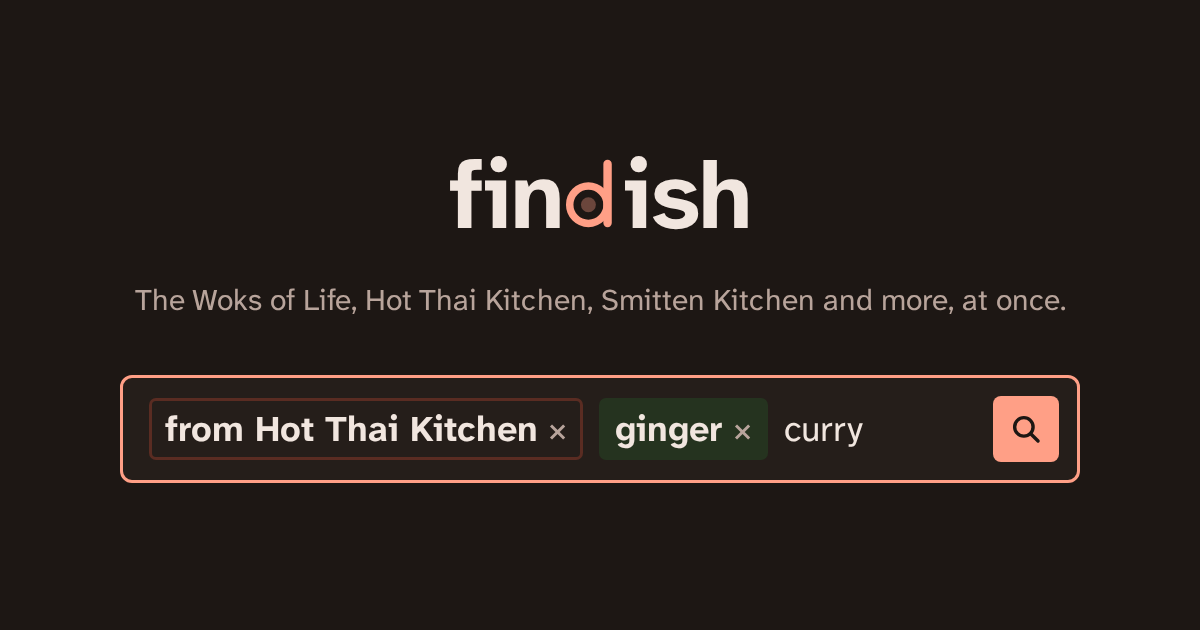
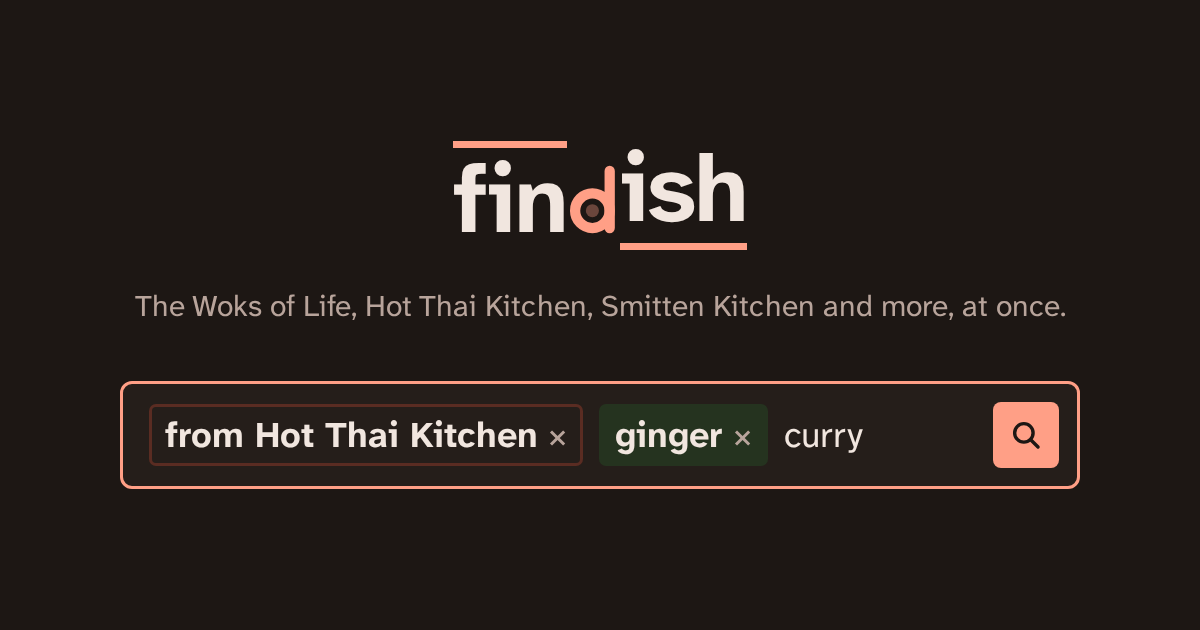
The wordmark gets its two short lines back and a d that matches the letters; the cuisine note is just a link
The line over "fin" and the line under "ish" are back, with the d left open
(not boxed in). The plate d's strokes now match the bold letters, and the extra
room on its right is gone, so the gaps either side of it are even. The share
card follows.

A one-cuisine search now shows one quiet line, "Explore Thai cuisine on World
cuisine", instead of a card with a Wikipedia sentence; ingredients get nothing.

Claude-Session: https://claude.ai/code/session_015KDcQG7Phcc9ZQiyKCp2Nv

Changed region(s): [[0.0925, 0.573, 0.8942, 0.7841], [0.0925, 0.4524, 0.8942, 0.5127], [0.37, 0.2111, 0.6475, 0.4222]]

diff --git a/src/scripts/search.ts b/src/scripts/search.ts
@@ -846,29 +846,25 @@ function renderVideos(hits: VideoRow[], q: string[], only: boolean) {
 }
 
 // ---------------------------------------------------------------------------------------
-// A short card when the search is about exactly one cuisine or one ingredient: one sentence
-// from World cuisine (which takes it from Wikipedia) and links to both. Nothing for anything
-// broader, so it never stacks up. Its text loads only the first time a card is needed.
+// When a search is just one cuisine, one quiet line above the results links to that cuisine
+// on World cuisine (kyle-pace/cuisine-explorer). Nothing for ingredients or broader searches.
+// Until 2026-11-16 it was a card with a Wikipedia sentence; Kyle dropped it as filler.
+// The links load (public/notes.json) only the first time the line is needed.
 
-type Note = { name: string; line: string; page: string; wiki: string };
-let notes: { cuisines: Record<string, Note>; ingredients: Record<string, Note> } | null = null;
+type Note = { name: string; page: string };
+let notes: { cuisines: Record<string, Note> } | null = null;
 let notesLoading = false;
 
-function noteFor(): { kind: 'cuisine' | 'ingredient'; id: string; label: string } | null {
+function noteFor(): string | null {
   const others = state.sites.size || state.without.length || state.notWords.length || state.fresh || state.picked >= 0;
-  if (others) return null;
-  if (state.cuisine && !state.q && !state.with.length) return { kind: 'cuisine', id: state.cuisine, label: `${state.cuisine} cuisine` };
-  // One ingredient tag, or the name of one typed on its own ("ginger").
-  const typed = state.q && !state.with.length && !state.cuisine ? ingredientFor(state.q, true) : null;
-  const p = state.with.length === 1 && !state.q && !state.cuisine ? state.with[0] : typed;
-  if (p != null) return { kind: 'ingredient', id: data.ing[p][0], label: data.ing[p][1] };
-  return null;
+  if (others || !state.cuisine || state.q || state.with.length) return null;
+  return state.cuisine;
 }
 
 function renderNote() {
   const box = $('note');
-  const want = noteFor();
-  if (!want) return void (box.hidden = true);
+  const cuisine = noteFor();
+  if (!cuisine) return void (box.hidden = true);
   if (!notes) {
     box.hidden = true;
     if (!notesLoading) {
@@ -876,43 +872,17 @@ function renderNote() {
       fetch('/notes.json')
         .then((r) => (r.ok ? r.json() : null))
         .then((n) => {
-          notes = n || { cuisines: {}, ingredients: {} };
+          notes = n?.cuisines ? n : { cuisines: {} };
           renderNote();
         })
-        .catch(() => (notes = { cuisines: {}, ingredients: {} }));
+        .catch(() => (notes = { cuisines: {} }));
     }
     return;
   }
-  const note = want.kind === 'cuisine' ? notes.cuisines[want.id] : notes.ingredients[want.id];
+  const note = notes.cuisines[cuisine];
   if (!note) return void (box.hidden = true);
-  const data_ = `data-note="${want.kind}" data-note-id="${esc(want.id)}"`;
-  // A native show/hide: open or closed, it stays the way it was left, on later searches too.
-  box.innerHTML = `<details id="note-details"${notesOpen() ? ' open' : ''}>
-    <summary><span id="note-title">About ${esc(want.kind === 'cuisine' ? note.name : want.label)}</span></summary>
-    <p>${esc(note.line)}</p>
-    <p class="note-more"><a href="${esc(note.page)}" ${data_} data-note-link="world-cuisine">Explore ${esc(
-      want.kind === 'cuisine' ? note.name : want.label.toLowerCase(),
-    )} on World cuisine</a>. Text from <a href="${esc(note.wiki)}" ${data_} data-note-link="wikipedia">Wikipedia</a>.</p>
-  </details>`;
+  box.innerHTML = `<a href="${esc(note.page)}" data-note="cuisine" data-note-id="${esc(cuisine)}" data-note-link="world-cuisine">Explore ${esc(note.name)} on World cuisine</a>`;
   box.hidden = false;
-  $('note-details').addEventListener('toggle', (e) => {
-    const open = (e.target as HTMLDetailsElement).open;
-    if (open === notesOpen()) return; // the same as before: nothing to save or count
-    try {
-      localStorage.setItem(NOTES_KEY, open ? 'open' : 'closed');
-    } catch {}
-    track('Changed Notes Setting', { notes_shown: open, note_kind: want.kind });
-  });
-}
-
-/** Whether notes start open. Kept in this browser only (localStorage), like the display settings. */
-const NOTES_KEY = 'findish-notes';
-function notesOpen(): boolean {
-  try {
-    return localStorage.getItem(NOTES_KEY) !== 'closed';
-  } catch {
-    return true;
-  }
 }
 
 function renderAlso() {

diff --git a/design/og.html b/design/og.html
@@ -9,7 +9,9 @@ body{width:1200px;height:630px;background:#1d1714;color:#f1e6df;font-family:A;ov
 .name{font-size:96px;font-weight:700;letter-spacing:-0.03em;line-height:1;margin:0}
 .name{display:inline-flex;align-items:stretch;letter-spacing:-0.02em}
 .d{display:flex;align-items:flex-end;padding:0 0.02em}
-.d svg{display:block;width:0.585em;height:0.74em;margin-bottom:0.15em;color:#ff9f86}
+.fin{border-top:0.08em solid #ff9f86;padding-top:0.04em}
+.ish{border-bottom:0.08em solid #ff9f86;padding-bottom:0.06em}
+.d svg{display:block;width:0.507em;height:0.74em;margin-bottom:0.15em;color:#ff9f86}
 .from{font-size:30px;color:#b8a49b;margin:36px 0 0}
 .box{margin-top:56px;width:960px;box-sizing:border-box;display:flex;align-items:center;gap:16px;padding:18px 18px 18px 26px;border:3px solid #ff9f86;border-radius:12px;background:#251e1a;font-size:36px;text-align:left}
 .tag{font-weight:700;background:#25331f;border-radius:7px;padding:8px 16px}
@@ -18,7 +20,7 @@ body{width:1200px;height:630px;background:#1d1714;color:#f1e6df;font-family:A;ov
 .text{flex:1}
 .go{width:66px;height:66px;border-radius:8px;background:#ff9f86;display:grid;place-items:center}
 </style></head><body>
-<p class="name"><span class="fin">fin</span><span class="d"><svg viewBox="0 0 60 76"><circle cx="25" cy="50" r="20" fill="none" stroke="currentColor" stroke-width="8"/><circle cx="25" cy="50" r="8" fill="currentColor" opacity="0.35"/><rect x="41" y="2" width="9" height="72" rx="4.5" fill="currentColor"/></svg></span><span class="ish">ish</span></p>
+<p class="name"><span class="fin">fin</span><span class="d"><svg viewBox="0 0 52 76"><circle cx="25" cy="50" r="18.5" fill="none" stroke="currentColor" stroke-width="11"/><circle cx="25" cy="50" r="7" fill="currentColor" opacity="0.35"/><rect x="38" y="2" width="11" height="72" rx="5.5" fill="currentColor"/></svg></span><span class="ish">ish</span></p>
 <p class="from">The Woks of Life, Hot Thai Kitchen, Smitten Kitchen and more, at once.</p>
 <div class="box"><span class="tag creator">from Hot Thai Kitchen<span class="x">×</span></span><span class="tag">ginger<span class="x">×</span></span><span class="text">curry</span>
 <span class="go"><svg viewBox="0 0 24 24" width="34" height="34"><circle cx="10.5" cy="10.5" r="6.5" fill="none" stroke="#1d1714" stroke-width="2.4"/><path d="m15.5 15.5 5 5" stroke="#1d1714" stroke-width="2.4" stroke-linecap="round"/></svg></span></div>

diff --git a/AGENTS.md b/AGENTS.md
@@ -246,14 +246,14 @@ Findish (findish.now; called Recipe search until 2026-11-16, when it moved off k
 - Creators: a creator is a site, a site and its YouTube channel, or a channel alone (Kenji). The `site=` URL parameter holds creator ids.
 - **Courses** (added 2026-11-16): `scripts/course.mjs` sorts each recipe into one of nine courses (main, side, soup, starter, breakfast, dessert, bread, sauce, drink) from its site's label (`k`), folding about 185 labels into those; with no label, only a plainly named dish decides, and a plain sauce, dessert or drink name beats a main or side label. Unclear stays `''` and is hidden only when a course is picked: never guess a course, since a wrong one hides a recipe. Tests in `scripts/course.test.mjs`. The page's Course filter (`course=`), the MCP `course` argument and "<Cuisine> sides to go with it" under main dishes all read it. Index rows carry it at position 10.
 - **New this week** (added 2026-11-16): the crawler stamps each recipe with `a`, the day it first found it, and keeps it across refetches (backfilled from git history on 2026-11-16). `build-index.mjs` lists as `fresh` the recipes found in the six days before the latest crawl, leaving out a creator's first crawl. The home page names up to three; "See all" sets `new=1`. Index rows carry the date at position 11.
-- **Cuisines and the note card** (added 2026-11-16, Kyle's call): cuisines are offered in the suggestions like creators and ingredients ("Thai cuisine"), and picking one sets the Cuisine filter and shows a cuisine tag; "thai food", "korean recipes" and the like do the same on Enter, but a bare "thai" stays a word (it also finds dishes filed under another cuisine). When a search is exactly one cuisine, or one ingredient (a tag or its name typed alone), a short card above the results gives one sentence from World cuisine (kyle-pace/cuisine-explorer, which takes it from Wikipedia) and links to its World cuisine page and to Wikipedia. Nothing broader gets a card. The text comes from `vendor/world-cuisine/notes.json`, refreshed with `npm run sync-world-cuisine` (expects a clone at `../cuisine-explorer`); `scripts/world-cuisine.mjs` keeps only the first sentence, without bracketed asides, and gives an ingredient a note only when World cuisine's ingredient goes by one of the catalog's names for it (its name or an alias, so "Scallions" covers green onion). The build writes the notes Findish can use to `public/notes.json`, which the page fetches only when a card shows. The note is a native `<details>` show/hide ("About Thai cuisine"): open by default, and a close or open is remembered in this browser (`localStorage`, key `findish-notes`) for later notes (Kyle wanted it switchable, 2026-11-16). Events: "Added Cuisine", "Opened World Cuisine" and "Changed Notes Setting".
+- **Cuisines and the note card** (added 2026-11-16, Kyle's call): cuisines are offered in the suggestions like creators and ingredients ("Thai cuisine"), and picking one sets the Cuisine filter and shows a cuisine tag; "thai food", "korean recipes" and the like do the same on Enter, but a bare "thai" stays a word (it also finds dishes filed under another cuisine). When a search is exactly one cuisine, one quiet line above the results links to it on World cuisine (kyle-pace/cuisine-explorer): "Explore Thai cuisine on World cuisine". Nothing for ingredients or broader searches. (Until 2026-11-16 this was a show/hide card with a Wikipedia sentence for cuisines and ingredients; Kyle dropped it as filler, since the sentences were dictionary definitions like "Pork is the culinary name for the meat of the pig.") The links come from `vendor/world-cuisine/notes.json`, refreshed with `npm run sync-world-cuisine` (expects a clone at `../cuisine-explorer`; `scripts/world-cuisine.mjs` still builds the full notes there), and the build writes just each cuisine's name and page to `public/notes.json`, which the page fetches only when the line shows. Events: "Added Cuisine" and "Opened World Cuisine" ("Changed Notes Setting" is retired).
 - **Home page ideas** (rotating since 2026-11-16, Kyle's call): every visit draws fresh ones at random in `buildStart` (`src/scripts/search.ts`): four dishes from the `TRY` pool (each must find at least `TRY_MIN` recipes), five of the 18 `popular` ingredients, two creators and three of the week's new recipes. Add dishes to `TRY` to widen the pool. Tapping a dish sends "Tapped Dish Idea" (`dish`); the other lines already send "Added Ingredient" (`added_from: popular`), "Added Creator" and "Opened Recipe" (`opened_from: new`).
 - Events for these: "Changed Filter" (every filter, `filter_name`, `filter_value`), "Opened Sides" and "Opened New Recipes"; opening a named new recipe is "Opened Recipe" with `opened_from: new`.
 - It stands on its own: the shell is kp-design's `LabLayout` with its `site` settings from `src/lib/site.ts` (name in titles and share cards, Amplitude project and live host, and the footer links, which include "More by Kyle" back to kylepace.dev); every page passes `bar={false}`, pinned to a commit in package.json.
 - Analytics go to Findish's own Amplitude project, "Findish" (910064), since 2026-11-16, only on findish.now. The key is in `src/lib/site.ts`; `scripts/popularity.mjs` reads the same project with the Actions secrets `AMPLITUDE_API_KEY` and `AMPLITUDE_SECRET_KEY`. Custom events no longer carry `experiment` (that's only for projects sharing kylepace.dev's). Events from before the move stay in the kylepace.dev project (902556) under `experiment: "recipe-search"`.
 - The crawler is FindishBot (renamed from RecipeSearchBot on 2026-11-16, Kyle's call; no indexed site's robots.txt named the old one). Its user agent links to findish.now/about/. `robotsForNames` in `crawler/lib/robots.mjs` applies the rules for every name it has gone by (`OLD_NAMES` in `crawler/crawl.mjs`): a path must be allowed for all of them and the longest Crawl-delay wins, so a block on the old name still holds. Keep old names in that list. Its look is its own: `src/styles/theme.css` overrides the tokens with "Tomato and basil" (Kyle's pick, 2026-11-16).
 - Photos load straight from each recipe's own site (Kyle's call, 2026-11-08), with no referrer and lazily. A photo five or more recipes share is a site's stand-in ("Photo to come"), so `build-index.mjs` drops it and those recipes show without one. Their hosts are in `.agents/allowed-hosts.txt`. A site that blocks it or asks us to stop gets text-only cards: set `crawl.photos: false` on it in KitchenCatalog's `recipe-sources/sources.json`, then `npm run sync-catalog`.
-- The wordmark ("fin", a plate-shaped d in tomato red, "ish"; the bars over and under came off the same day, Kyle's call) is `src/components/Wordmark.astro`, used in the home page's name and in `src/components/SiteHead.astro`, the link home at the top of every other page. The plate d alone is the favicon, `public/favicon-v3.svg`, which every page passes to `LabLayout` as `favicon`; if it changes again, give it a new name. Don't put an `aria-label` on links around the wordmark: the visible letters read "finish", so a label like "Findish, back to the search" fails axe. See `design/PLAN.md`.
+- The wordmark ("fin", a plate-shaped d in tomato red, "ish", with a short tomato line over "fin" and another under "ish"; the first bars also ran over and under the d and boxed it in, so they came off, and Kyle had the two short lines put back the same night, 2026-11-16, with the d's strokes made heavier to match the bold letters and its spacing evened out) is `src/components/Wordmark.astro`, used in the home page's name and in `src/components/SiteHead.astro`, the link home at the top of every other page. The plate d alone is the favicon, `public/favicon-v3.svg`, which every page passes to `LabLayout` as `favicon`; if it changes again, give it a new name. Don't put an `aria-label` on links around the wordmark: the visible letters read "finish", so a label like "Findish, back to the search" fails axe. See `design/PLAN.md`.
 - The share cards are `design/og.html`, `og-about.html`, `og-assistants.html` and `og-privacy.html`, rendered to the matching PNGs in `public/`.
 - Run `npm run build` before pushing; it must pass.
 

diff --git a/design/PLAN.md b/design/PLAN.md
@@ -19,7 +19,7 @@ The other two directions considered: a cookbook-index list (one column, time on 
 
 ## The wordmark (November 16, 2026)
 
-Findish is "fin", a plate-shaped d in tomato red, "ish", in Atkinson bold. The d (a plate seen from above, with its stem) is where find and dish meet. Kyle picked the plate d on November 16 from mocks that combined two earlier ideas, bars over and under the name and the plate d; it replaced the curve under "dish", and he had the bars taken off the same day because they boxed the name in. It's text and one small inline SVG for the d (`src/components/Wordmark.astro`), so it scales and follows light and dark; screen readers hear "Findish" from hidden text and skip the drawing. It's the big name on the home page, the small link home in results, and a link home at the top of every other page (`src/components/SiteHead.astro`, since there's no top bar). The plate d on its own is the favicon (`public/favicon-v3.svg`, tomato since November 16, renamed so search engines refetch it; every page passes it to `LabLayout`), and the home share card (`design/og.html`) uses the full mark.
+Findish is "fin", a plate-shaped d in tomato red, "ish", in Atkinson bold. The d (a plate seen from above, with its stem) is where find and dish meet. Kyle picked the plate d on November 16 from mocks that combined two earlier ideas, bars over and under the name and the plate d; it replaced the curve under "dish", and he had the bars taken off the same day because they boxed the name in. That night the two short lines came back on their own, one over "fin" and one under "ish", leaving the d open, and the d got heavier strokes (11 units, matching the bold letters) and lost the extra room on its right so the gaps either side of it are even. It's text and one small inline SVG for the d (`src/components/Wordmark.astro`), so it scales and follows light and dark; screen readers hear "Findish" from hidden text and skip the drawing. It's the big name on the home page, the small link home in results, and a link home at the top of every other page (`src/components/SiteHead.astro`, since there's no top bar). The plate d on its own is the favicon (`public/favicon-v3.svg`, tomato since November 16, renamed so search engines refetch it; every page passes it to `LabLayout`), and the home share card (`design/og.html`) uses the full mark.
 
 ## The subject
 
@@ -96,5 +96,5 @@ Kyle found the home page cramped and the menus fussy. From filter menus on Navan
 Kyle wanted people to be able to search for a cuisine, or an ingredient, as the thing itself, without the page getting busy. The rule: one extra thing at a time, and only when the search is clearly about it.
 
 - A cuisine is a suggestion like a creator or an ingredient, and becomes a tag with a basil outline (between an ingredient's fill and a creator's tomato ring).
-- When the search is exactly one cuisine or one ingredient, a quiet strip under the count: its name, one sentence from World cuisine (from Wikipedia), and links to both. A field-rule line on the left, not a panel or card, so it reads as a note and not a result. Two ingredients, a dish name, a creator or anything left out: no strip.
+- When the search is exactly one cuisine, one quiet line under the count: "Explore Thai cuisine on World cuisine". Nothing else. (It was a strip with a Wikipedia sentence for cuisines and ingredients until November 16; the sentences were dictionary definitions, so Kyle cut it to the link.)
 - It's a show/hide ("About Thai cuisine"), so anyone who'd rather not see notes can close it to one quiet line; it stays closed on later searches in that browser.

diff --git a/README.md b/README.md
@@ -39,7 +39,7 @@ npm run preview   # builds, then runs it the way Cloudflare will
 | Searching, typeahead, filters, URL state | `src/scripts/search.ts` |
 | The index (generated, not committed) | `public/index.json`, from `scripts/build-index.mjs` |
 | Ingredient matching and the source list | `vendor/kitchen-catalog/` (refresh with `npm run sync-catalog`), read through `crawler/lib/sources.mjs` |
-| Notes on cuisines and ingredients (the card above results) | `vendor/world-cuisine/notes.json` from World cuisine (refresh with `npm run sync-world-cuisine`), sentence rules in `scripts/world-cuisine.mjs` |
+| Links to World cuisine (the line above a one-cuisine search) | `vendor/world-cuisine/notes.json` from World cuisine (refresh with `npm run sync-world-cuisine`), sentence rules in `scripts/world-cuisine.mjs` |
 | Page shell (back link, footer line, analytics) | `LabLayout` from [kp-design](https://github.com/kyle-pace/kp-design), with Findish's own settings in `src/lib/site.ts` |
 | Its own look (colors) | `src/styles/theme.css` |
 | Share card | `design/og.html`, rendered to `public/og.png` |
